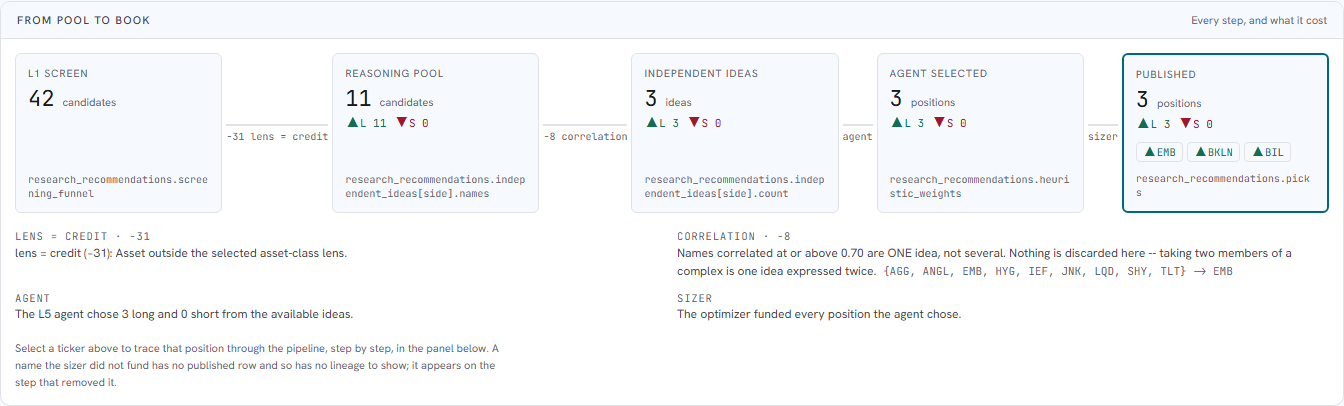
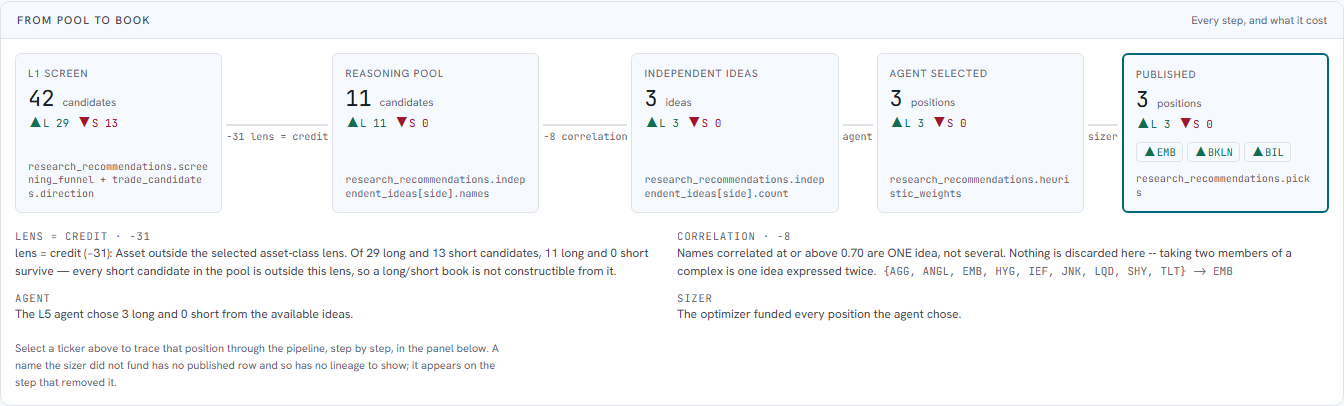
feat(book): the funnel opens on the shared pool, and names the side the lens empties
Both lenses start at 42 because there is only one pool: `trade_candidates` has no
lens column, L1 ranks names before a lens is chosen, and the lens is a filter
applied downstream in screen_candidates. The funnels therefore open at the same
node and diverge at the second.

The first node now carries that pool's own long/short split, which turns the
credit lens's central claim from an assertion into a measurement:

    L1 screen  42  (29L / 13S)
      -31 lens = credit
    Reasoning pool  11  (11L / 0S)

    "Of 29 long and 13 short candidates, 11 long and 0 short survive -- every
     short candidate in the pool is outside this lens, so a long/short book is
     not constructible from it."

The published thesis already SAYS a long/short structure is not constructible
from this screen. This is the arithmetic behind that sentence, and it is on the
page beside it rather than inferable from two tables.

Said only when a side is genuinely emptied. On the multi-asset lens the same edge
reports "19 long and 11 short survive" and stops -- a line that appears every day
cannot mean anything on the day it does.

GUARDED. The split renders only when the candidate row count equals the funnel's
own first `remaining`. `trade_candidates` is read on its own latest run_date and
the book row on its own; normally the same day, occasionally not, and a split
from one vintage under a total from another is two books on one line -- the
[…]

Changed region(s): [[0.0, 0.5911, 0.5, 0.6798], [0.0312, 0.3842, 0.1562, 0.5025], [0.0, 0.2956, 0.0938, 0.3251]]

diff --git a/frontend/lib/book/bookFunnel.ts b/frontend/lib/book/bookFunnel.ts
@@ -57,6 +57,19 @@ export interface SideIdeas {
 }
 
 export interface FunnelInputs {
+  /**
+   * The raw L1 pool from `trade_candidates`, for the first node's long/short
+   * split. Optional: the chain is complete without it.
+   *
+   * `trade_candidates` has NO lens column — L1 ranks names before a lens is
+   * chosen, so every lens screens the same rows. That is exactly why the split
+   * is worth drawing: on 2026-07-30 the shared pool was 29 long / 13 short, and
+   * the credit lens left 11 long and ZERO short. Every short candidate that
+   * existed was outside the credit universe, which is the measured form of the
+   * published thesis's own sentence that a long/short structure is not
+   * constructible from this screen.
+   */
+  candidates?: Array<{ asset?: string | null; direction?: string | null }> | null;
   screeningFunnel?: ScreeningStage[] | null;
   independentIdeas?: Partial<Record<"long" | "short", SideIdeas>> | null;
   /** The agent's chosen book, signed, pre-optimizer (ADR-0107). */
@@ -231,6 +244,17 @@ export function buildBookFunnel(inp: FunnelInputs): BookFunnel {
   const chosen = splitSigned(inp.heuristicWeights);
   const published = splitPicks(inp.picks);
 
+  // The raw pool's own long/short split, used only if it describes the SAME pool
+  // the funnel counts. `trade_candidates` is read on its own latest run_date and
+  // the book row on its own; a split from one vintage under a total from another
+  // is two books on one line, which is the failure this whole panel exists to
+  // stop. Equality of counts is the cheapest honest check available here.
+  const rawCandidates = inp.candidates?.length ? splitPicks(inp.candidates) : null;
+  const rawSplit =
+    rawCandidates && bounds.first !== null && rawCandidates.total === bounds.first
+      ? rawCandidates
+      : null;
+
   if (published.total === 0) {
     return {
       available: false,
@@ -259,15 +283,19 @@ export function buildBookFunnel(inp: FunnelInputs): BookFunnel {
     {
       id: "screen",
       label: "L1 screen",
-      // No side split at this stage, and that is a fact about the data rather
-      // than a gap to fill: the long/short breakdown of the raw pool lives in
-      // `trade_candidates`, which this page does not read. Showing 0/0 here
-      // would claim the screen found no shorts.
-      long: null,
-      short: null,
+      // Split shown ONLY when the candidate rows agree with the funnel's own
+      // count. `trade_candidates` is read on its own latest run_date and the
+      // book on its own; those are normally the same day and occasionally are
+      // not, and a split taken from a different vintage than the total above it
+      // is the two-books-on-one-line failure in miniature. Disagree -> no split,
+      // which costs a detail; assert it anyway -> a wrong one.
+      long: rawSplit ? rawSplit.long : null,
+      short: rawSplit ? rawSplit.short : null,
       total: bounds.first,
       unit: "candidates",
-      source: "research_recommendations.screening_funnel",
+      source: rawSplit
+        ? "research_recommendations.screening_funnel + trade_candidates.direction"
+        : "research_recommendations.screening_funnel",
       cause:
         bounds.first === null
           ? "screening_funnel is absent on this row -- it is populated from migration 022 onward."
@@ -345,7 +373,20 @@ export function buildBookFunnel(inp: FunnelInputs): BookFunnel {
             .map((s) =>
               s.reason ? `${s.stage} (−${s.removed}): ${s.reason}` : `${s.stage}: −${s.removed}`,
             )
-            .join(" "),
+            .join(" ") +
+          // The side arithmetic across this edge, when both ends carry a split.
+          // On the credit lens it is the whole argument: 13 shorts in, 0 out, so
+          // the universe -- not the screen and not the agent -- is what makes a
+          // long/short credit book unconstructible. Stated only when it is TRUE
+          // that a side was emptied; a generic "x long and y short remain" every
+          // day would bury the one day it matters.
+          (rawSplit !== null && ctxLong !== null && ctxShort !== null
+            ? ` Of ${rawSplit.long} long and ${rawSplit.short} short candidates, ` +
+              `${ctxLong} long and ${ctxShort} short survive` +
+              (rawSplit.short > 0 && ctxShort === 0
+                ? " — every short candidate in the pool is outside this lens, so a long/short book is not constructible from it."
+                : ".")
+            : ""),
   });
 
   // Correlated names collapsing into one idea. This edge removes NOTHING from

diff --git a/frontend/tests/unit/book-funnel.test.ts b/frontend/tests/unit/book-funnel.test.ts
@@ -338,6 +338,58 @@ describe("buildBookFunnel — the credit lens narrows at a different step", () =
   });
 });
 
+// The raw L1 pool is SHARED: `trade_candidates` has no lens column, so L1 ranks
+// names before a lens is chosen and both books screen the same 42 rows. On
+// 2026-07-30 that pool was 29 long / 13 short.
+const RAW42 = [
+  ...Array.from({ length: 29 }, (_, i) => ({ asset: `L${i}`, direction: "long" })),
+  ...Array.from({ length: 13 }, (_, i) => ({ asset: `S${i}`, direction: "short" })),
+];
+
+describe("the first node's split, and what the lens does to it", () => {
+  it("carries 29L/13S when the candidate rows match the funnel's own count", () => {
+    const f = buildBookFunnel({ ...LIVE, candidates: RAW42 });
+    const screen = f.nodes.find((n) => n.id === "screen");
+    expect(screen).toMatchObject({ total: 42, long: 29, short: 13 });
+    expect(screen?.source).toContain("trade_candidates.direction");
+  });
+
+  it("REFUSES the split when the candidate rows describe a different pool", () => {
+    // trade_candidates is read on its own latest run_date and the book on its
+    // own. A split from one vintage under a total from another is two books on
+    // one line -- the failure this panel exists to stop, reproduced inside it.
+    const f = buildBookFunnel({ ...LIVE, candidates: RAW42.slice(0, 20) });
+    const screen = f.nodes.find((n) => n.id === "screen");
+    expect(screen?.long).toBeNull();
+    expect(screen?.short).toBeNull();
+    expect(screen?.source).not.toContain("trade_candidates");
+  });
+
+  it("says a long/short book is not constructible when the lens empties a side", () => {
+    // The credit argument, measured: 13 shorts in the shared pool, 0 survive.
+    const f = buildBookFunnel({ ...CREDIT, candidates: RAW42 });
+    const lensEdge = f.edges.find((e) => e.to === "context");
+    expect(lensEdge?.detail).toContain("29 long and 13 short candidates");
+    expect(lensEdge?.detail).toContain("11 long and 0 short survive");
+    expect(lensEdge?.detail).toContain("not constructible");
+  });
+
+  it("does NOT say it when both sides survive", () => {
+    // The multi-asset lens removes nothing, so the sentence would be noise --
+    // and a line that appears every day cannot mean anything on the day it does.
+    const f = buildBookFunnel({ ...LIVE, candidates: RAW42 });
+    const edge = f.edges.find((e) => e.to === "context");
+    expect(edge?.detail).not.toContain("not constructible");
+    expect(edge?.detail).toContain("19 long and 11 short survive");
+  });
+
+  it("omits the split entirely when no candidate rows are supplied", () => {
+    const screen = buildBookFunnel(LIVE).nodes.find((n) => n.id === "screen");
+    expect(screen?.long).toBeNull();
+    expect(screen?.total).toBe(42);
+  });
+});
+
 describe("splitPicks", () => {
   it("ignores rows with no asset rather than counting them", () => {
     const s = splitPicks([

diff --git a/frontend/components/book/BookBody.tsx b/frontend/components/book/BookBody.tsx
@@ -1233,6 +1233,13 @@ function BookPageInner() {
                   else on the page would make that click a jump. */}
               <BookFunnel
                 inputs={{
+                  // The raw L1 pool, for the first node's long/short split.
+                  // Deliberately the UNFILTERED `candidates`, not `lensCandidates`:
+                  // this node IS the shared pool every lens screens, and the next
+                  // edge is where the lens removes from it. Passing the filtered
+                  // list would make the first node agree with the second and
+                  // delete the very step the panel is drawing.
+                  candidates,
                   screeningFunnel: rec.screening_funnel ?? null,
                   independentIdeas: rec.independent_ideas ?? null,
                   heuristicWeights: rec.heuristic_weights ?? null,

diff --git a/docs/adrs/0199-the-step-that-removed-a-position-is-the-answer.md b/docs/adrs/0199-the-step-that-removed-a-position-is-the-answer.md
@@ -110,3 +110,36 @@ than the only option — it had been answering "which position is most interesti
   with no split rather than a fabricated one. The 29/13 skew is genuinely interesting —
   the raw pool was more than twice as long as short — and surfacing it needs a decision
   about whether `/book` should read a second table.
+
+## Correction, 2026-07-31 (same day, appended not rewritten)
+
+**The last consequence above is wrong on its facts.** `BookBody` has read
+`trade_candidates` for some time — `asset, direction, edge_score, theme_id, run_date,
+via_conviction`, filtered to the latest candidate `run_date`, limit 200 — because
+`ClearedNotTaken` needs it. The split was available the whole time and needed no new
+query and no decision about reading a second table. I asserted a limitation instead of
+checking for one, which is the same class of error as the "context cap" mislabel this
+ADR's own fix commit records.
+
+The split now renders on the first node, guarded: it is shown **only** when the
+candidate row count equals the funnel's own first `remaining`. `trade_candidates` is
+read on its own latest `run_date` and the book row on its own; those are normally the
+same day and occasionally are not, and a split taken from one vintage sitting under a
+total from another is two books on one line — the failure this whole panel exists to
+stop, reproduced inside it. On disagreement the split is absent, which costs a detail;
+asserting it anyway would cost a true one.
+
+What it buys is the credit lens's central fact, measured rather than argued. The shared
+L1 pool on 2026-07-30 is **29 long / 13 short**, and after `lens = credit` **11 long and
+0 short** survive — so the edge now reads *"every short candidate in the pool is outside
+this lens, so a long/short book is not constructible from it."* That sentence is stated
+only when a side is genuinely emptied; on the multi-asset lens the same edge reports
+"19 long and 11 short survive" and stops. A line that appears every day cannot mean
+anything on the day it does.
+
+This also settles a question the original text left open — whether both lenses start
+from the same pool. They do, and necessarily: `trade_candidates` has no lens column, L1
+ranks names before a lens is chosen, and the lens is a filter applied downstream inside
+`screen_candidates`. Both books' funnels therefore open at 42 and diverge at the second
+node. See [ADR-0200](0200-a-candidate-the-lens-removed-is-not-a-candidate-the-book-declined.md),
+written concurrently, for what goes wrong when a panel forgets that.
